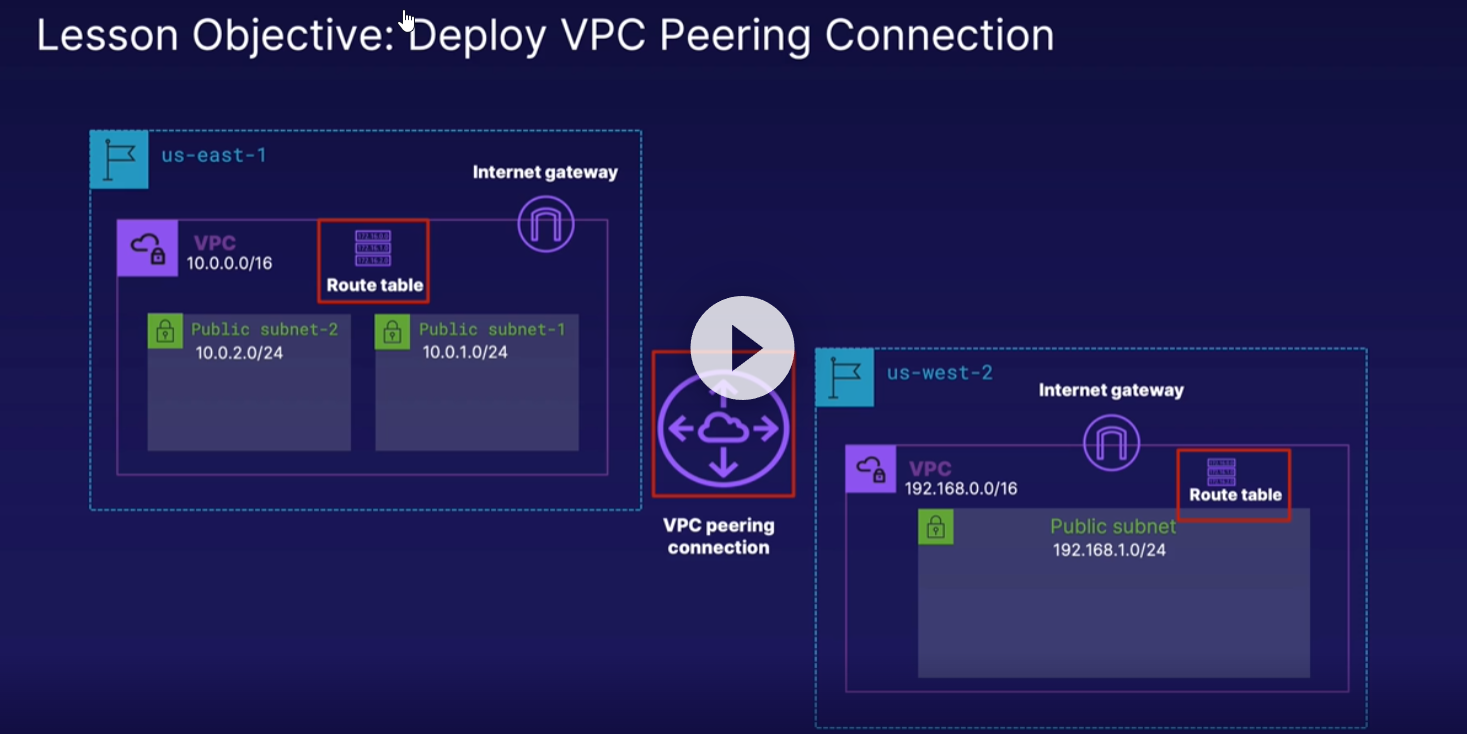
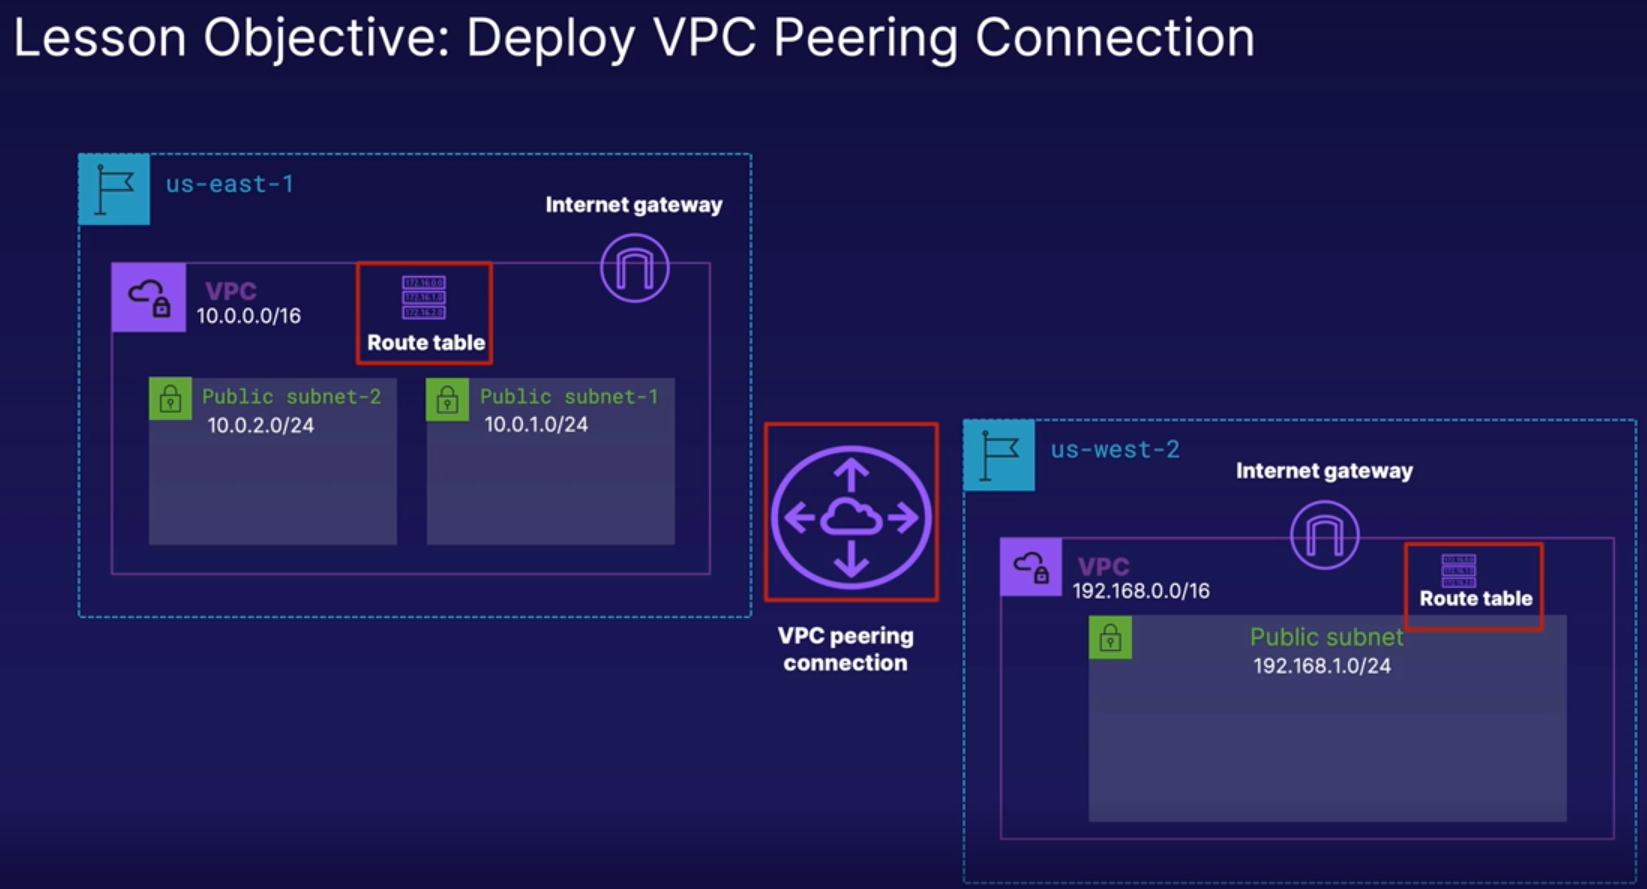
Lesson 3.6 image file and readme update

Changed region(s): [[0.0307, 0.1499, 1.0, 0.9591], [0.0, 0.0, 0.7669, 0.0899], [0.5521, 0.9891, 1.0, 1.0]]

diff --git a/readme.md b/readme.md
@@ -3,4 +3,8 @@ Terraform Lab file.
 Lesson 3.5 module image:
 ![][def]
 
+Lesson 3.6 Module Image
+![][def2]
+
 [def]: images/lesson3.5objective.png
+[def2]: images/lesson3.6objective.png
